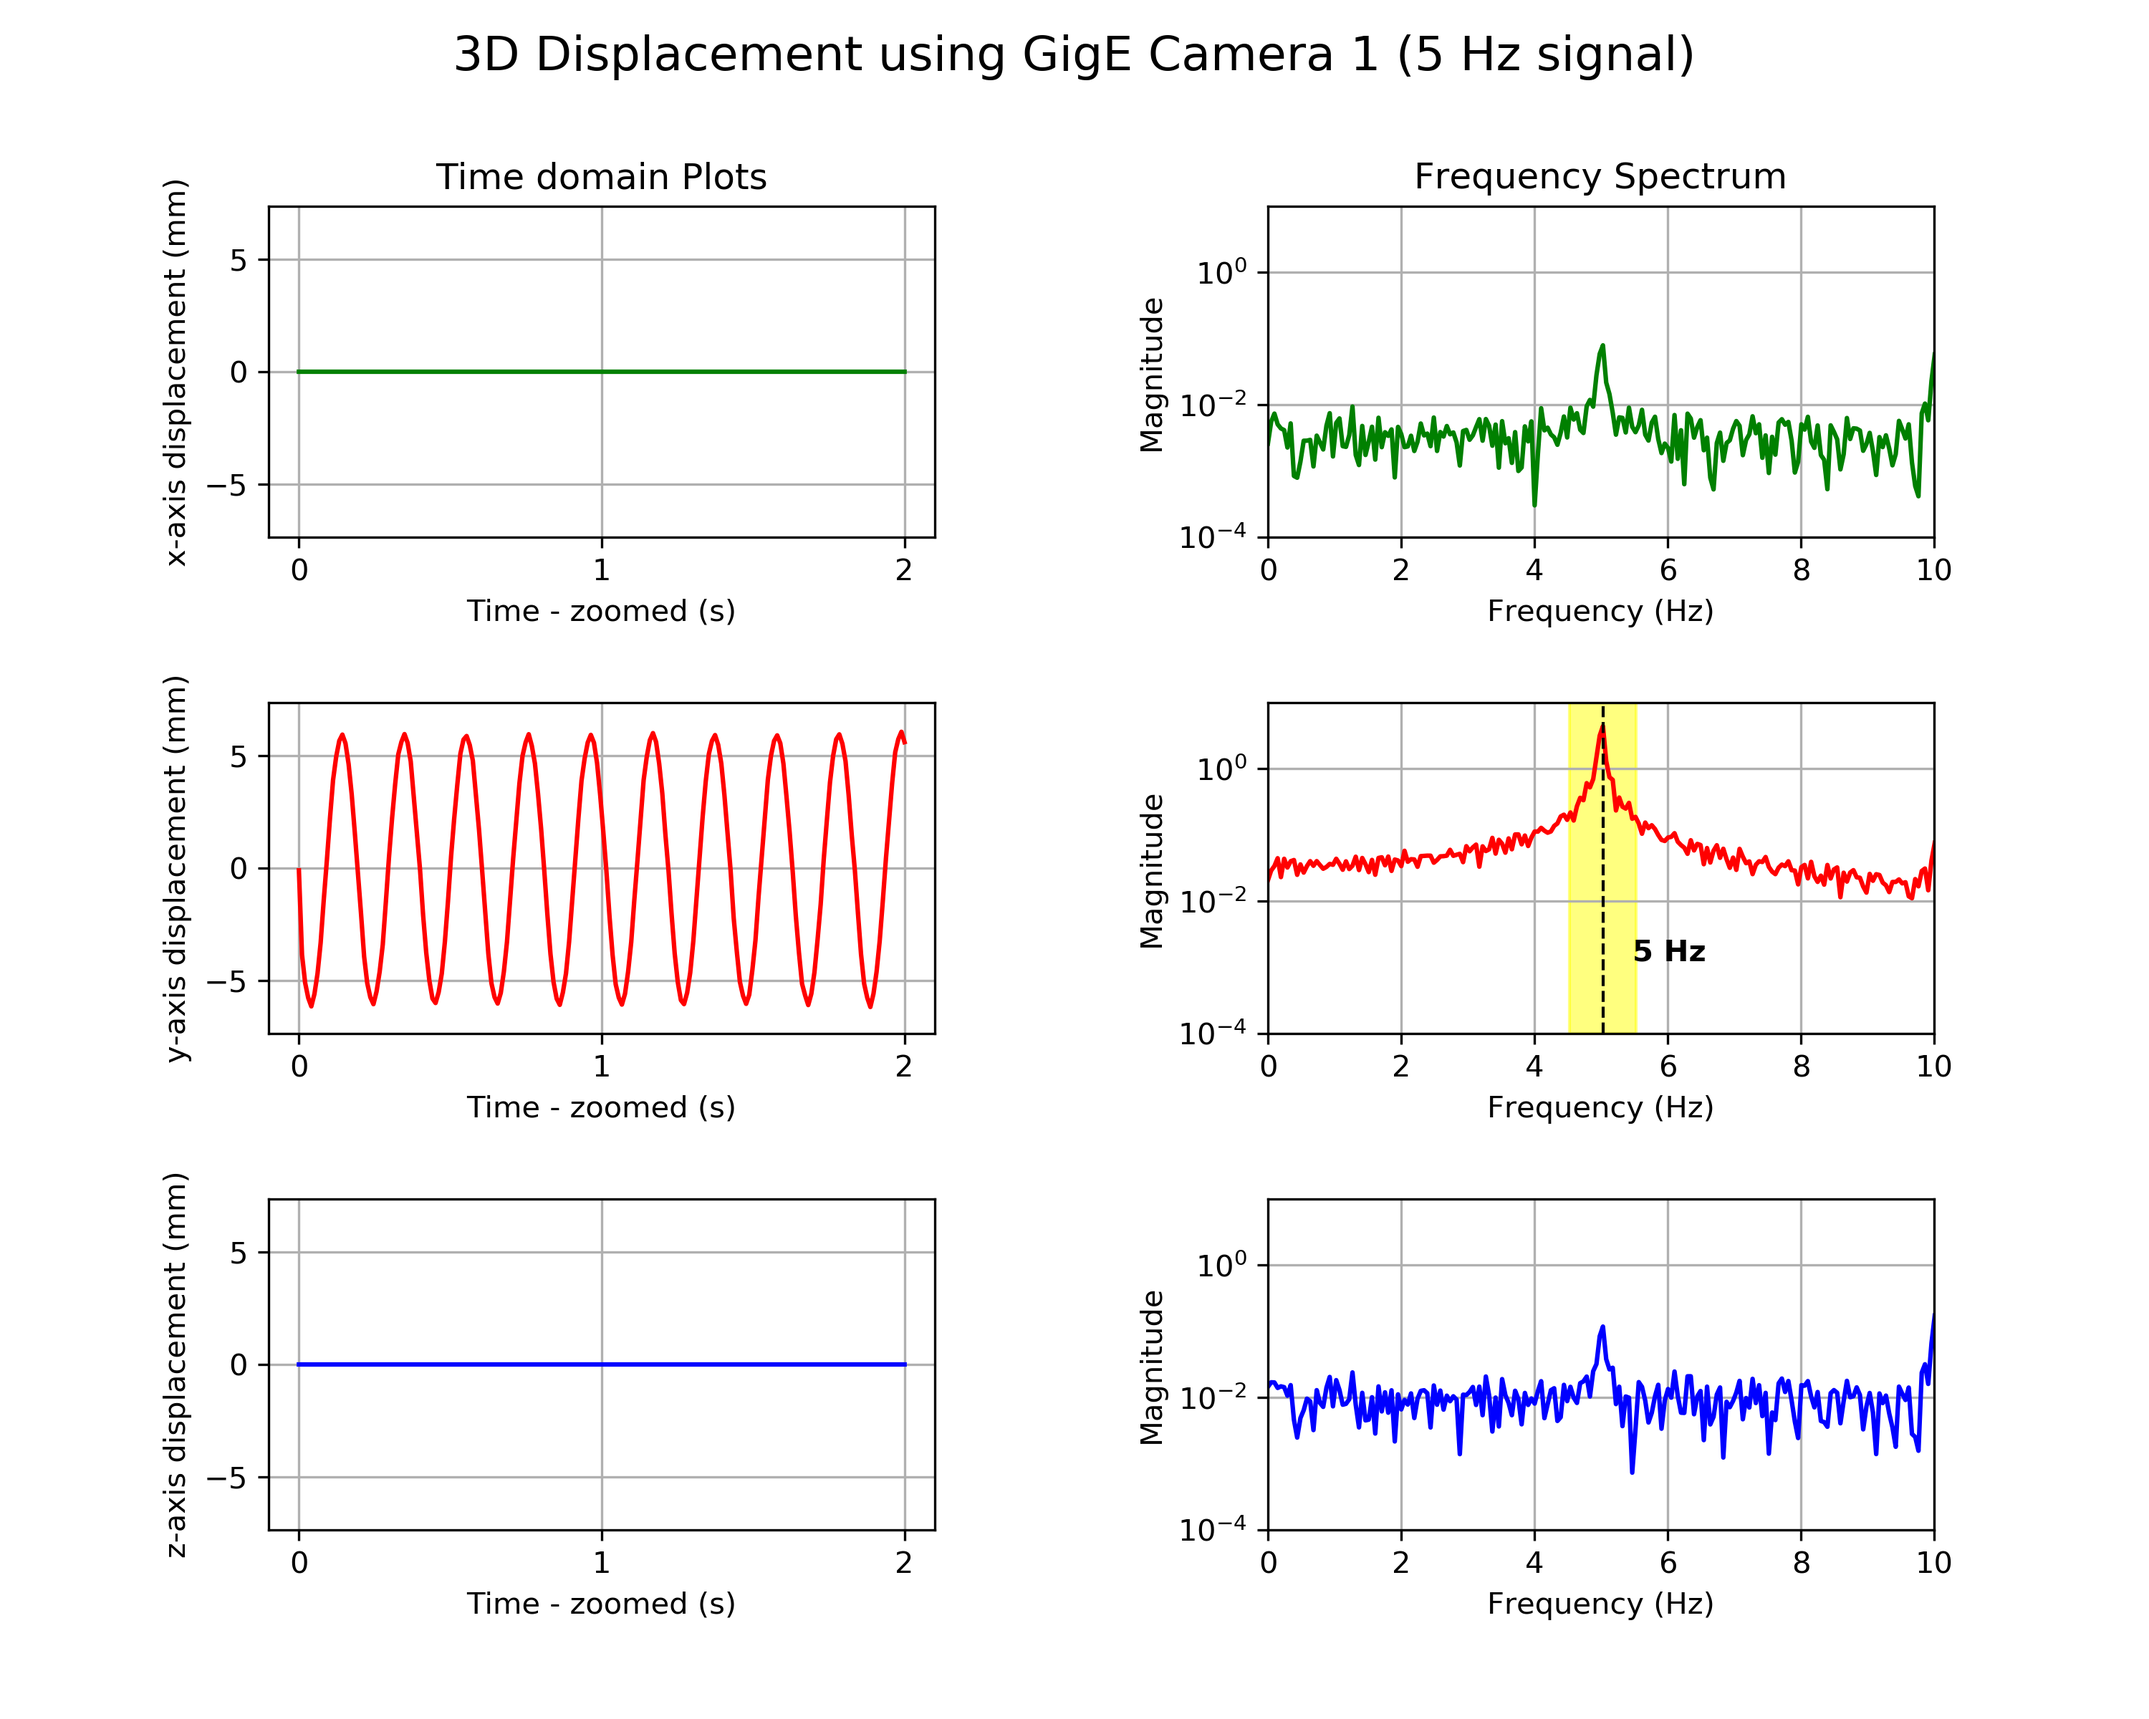
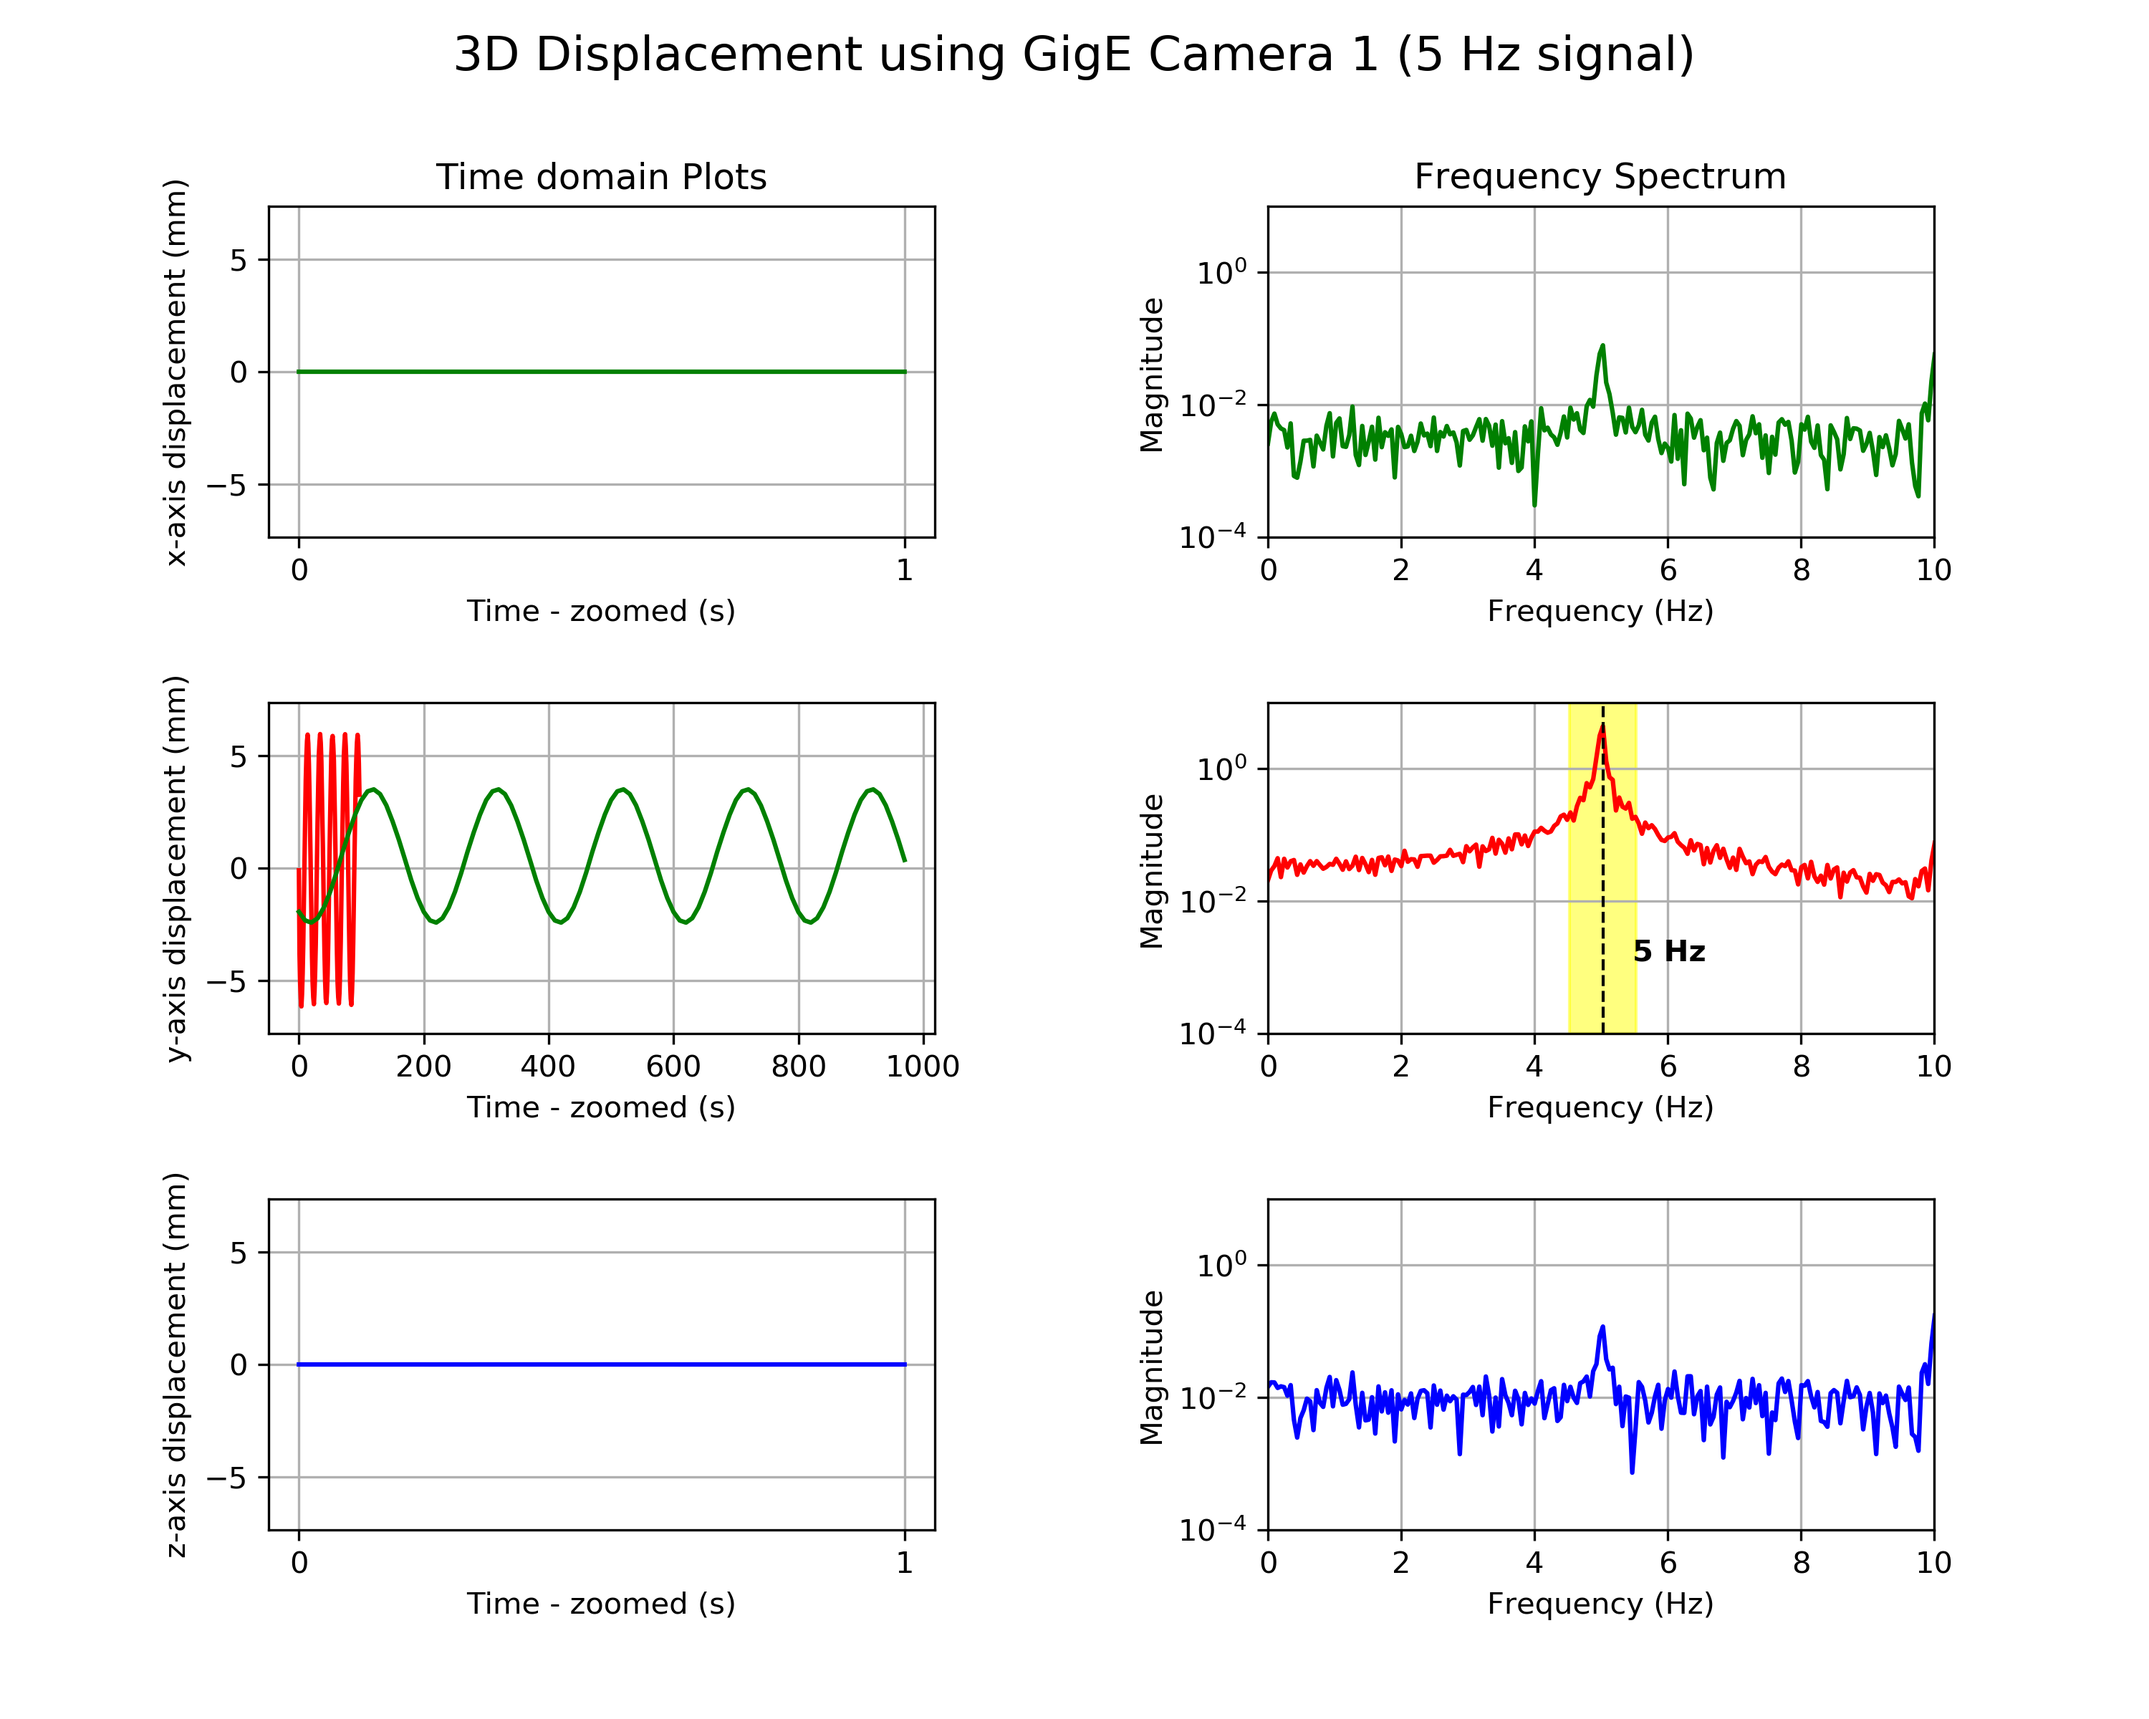
plotting

Changed region(s): [[0.124, 0.4375, 0.434, 0.625]]

diff --git a/src/gige_cam_driver/csvfiles/plot_2.py b/src/gige_cam_driver/csvfiles/plot_2.py
@@ -43,19 +43,20 @@ def csv_plotting_v2(csv_file, ldv_file):
     delta_t = 1 / fs_desired
     time_data_ldv_downsampled = time_data_ldv[::factor]
     disp_data_ldv_downsampled = disp_data_ldv[::factor]
-    
+    print('Length before downsampling: ', len(disp_data_ldv))
+    print('Length after downsampling : ', len(disp_data_ldv_downsampled))
 
     # Calculate actual sampling frequency of downsampled signal
     time_diffs = np.diff(time_data_ldv_downsampled)
     fs_ldv_downsampled = int(round(1 / np.mean(time_diffs),0))
 
-    print('fs_ldv after downsampling: ', fs_ldv_downsampled)
+    # print('fs_ldv after downsampling: ', fs_ldv_downsampled)
     
-    print('Length of time_data_ldv_downsampled: ', len(time_data_ldv_downsampled)/100)
-    print('Length of disp_data_ldv_downsampled: ', len(disp_data_ldv_downsampled))
+    # print('Length of time_data_ldv_downsampled: ', len(time_data_ldv_downsampled))
+    # print('Length of disp_data_ldv_downsampled: ', len(disp_data_ldv_downsampled))
     
-    print('Length of time_data_ldv: ', len(time_data_ldv))
-    print('Length of disp_data_ldv: ', len(disp_data_ldv))
+    # print('Length of time_data_ldv: ', len(time_data_ldv))
+    # print('Length of disp_data_ldv: ', len(disp_data_ldv))
 
     
 
@@ -99,6 +100,14 @@ def csv_plotting_v2(csv_file, ldv_file):
     y_disp = data['field.transforms0.transform.translation.y']
     z_disp = data['field.transforms0.transform.translation.z']
     
+    print("Length1:", len(x_disp), len(y_disp), len(z_disp))
+    print('Length2:', len(disp_data_ldv_downsampled))
+    cam_data = y_disp[:100]
+    # ldv_data = disp_data_ldv_downsampled[:100]
+    plt.plot(cam_data*1000 , label='y_disp', color='red')
+    # plt.plot(ldv_data, color='blue')
+    plt.show()
+    return
     # x_disp = data['field.transforms0.transform.translation.x'] - data['field.transforms0.transform.translation.x'][0]
     # y_disp = data['field.transforms0.transform.translation.y'] - data['field.transforms0.transform.translation.y'][0]
     # z_disp = data['field.transforms0.transform.translation.z'] - data['field.transforms0.transform.translation.z'][0]
@@ -106,6 +115,7 @@ def csv_plotting_v2(csv_file, ldv_file):
     x_disp = x_disp - np.mean(x_disp)
     y_disp = y_disp - np.mean(y_disp)
     z_disp = z_disp - np.mean(z_disp)
+    
     
     x_disp = np.asarray(x_disp)
     y_disp = np.asarray(y_disp)
@@ -121,14 +131,16 @@ def csv_plotting_v2(csv_file, ldv_file):
     
 # Time domain plot for x-axis (zoomed)
     # duration
-    print(duration)
-    x_axs_seconds = 2
+    # print('duration',duration, 's')
+    x_axs_seconds = 1
     factor = duration
     x_len = len(x_disp)
+    # print('x_len',x_len)
     new_x_len = x_len//factor
     new_x_len = new_x_len * x_axs_seconds
+    # print('new_x_len',new_x_len)
     ylimit_value = (np.max(y_disp) + 0.2 * np.max(y_disp))*1000
-    print('new_x_len', new_x_len)
+    # print('new_x_len', new_x_len)
     
     axs[0, 0].plot(x_disp[:new_x_len], label='x_disp', color='green')
     axs[0, 0].set_xlabel('Time - zoomed (s)')
@@ -140,20 +152,24 @@ def csv_plotting_v2(csv_file, ldv_file):
     axs[0, 0].grid(True)
 
     
-
+    print('len(disp_data_ldv)',len(disp_data_ldv))
+    print('len(y_disp)',len(y_disp))
 
     # Time domain plot for 
     # factor = 30
     x_len = len(y_disp)
     new_x_len = x_len//factor
     new_x_len = new_x_len * x_axs_seconds
-    # print(new_x_len)
+    
+    # fig1, axs1 = plt.subplots(3, 2, figsize=(10, 8), gridspec_kw={'hspace': 0.5, 'wspace': 0.5})
+
     axs[1, 0].plot(y_disp[:new_x_len]*1000, label='y_disp', color='red')
+    axs[1, 0].plot(disp_data_ldv_downsampled[:new_x_len], label='x_disp', color='green')
     axs[1, 0].set_xlabel('Time - zoomed (s)')
     axs[1, 0].set_ylabel('y-axis displacement (mm)')
     axs[1, 0].set_ylim([-ylimit_value, ylimit_value])
-    axs[1, 0].set_xticks(np.linspace(0, new_x_len-1, x_axs_seconds+1))
-    axs[1, 0].set_xticklabels(np.arange(0, x_axs_seconds+1))
+    # axs[1, 0].set_xticks(np.linspace(0, new_x_len-1, x_axs_seconds+1))
+    # axs[1, 0].set_xticklabels(np.arange(0, x_axs_seconds+1))
     axs[1, 0].grid(True)
 
 

diff --git a/src/gige_cam_driver/csvfiles/result_analysis.m b/src/gige_cam_driver/csvfiles/result_analysis.m
@@ -1,0 +1,23 @@
+clear all
+close all
+clc
+
+% % Plotting of 3D Displacement results
+% Summary of example objective
+
+% % reading data form files
+% Description of first code block
+% Read CSV file into a table with original column headers
+dataTable = readtable('camera_1_30s_2023-04-20_06-13-09_2Hz.csv', 'VariableNamingRule', 'preserve');
+
+% % Section 2 Title
+xDisplacementsCamera = dataTable.("field.transforms0.transform.translation.x");
+yDisplacementsCamera = dataTable.("field.transforms0.transform.translation.y");
+zDisplacementsCamera = dataTable.("field.transforms0.transform.translation.x");
+
+time = dataTable.("%time")
+figure()
+t_time = time(1:10,:)
+disp_ = yDisplacementsCamera(1:10,:)
+plot(t_time, disp_)
+
